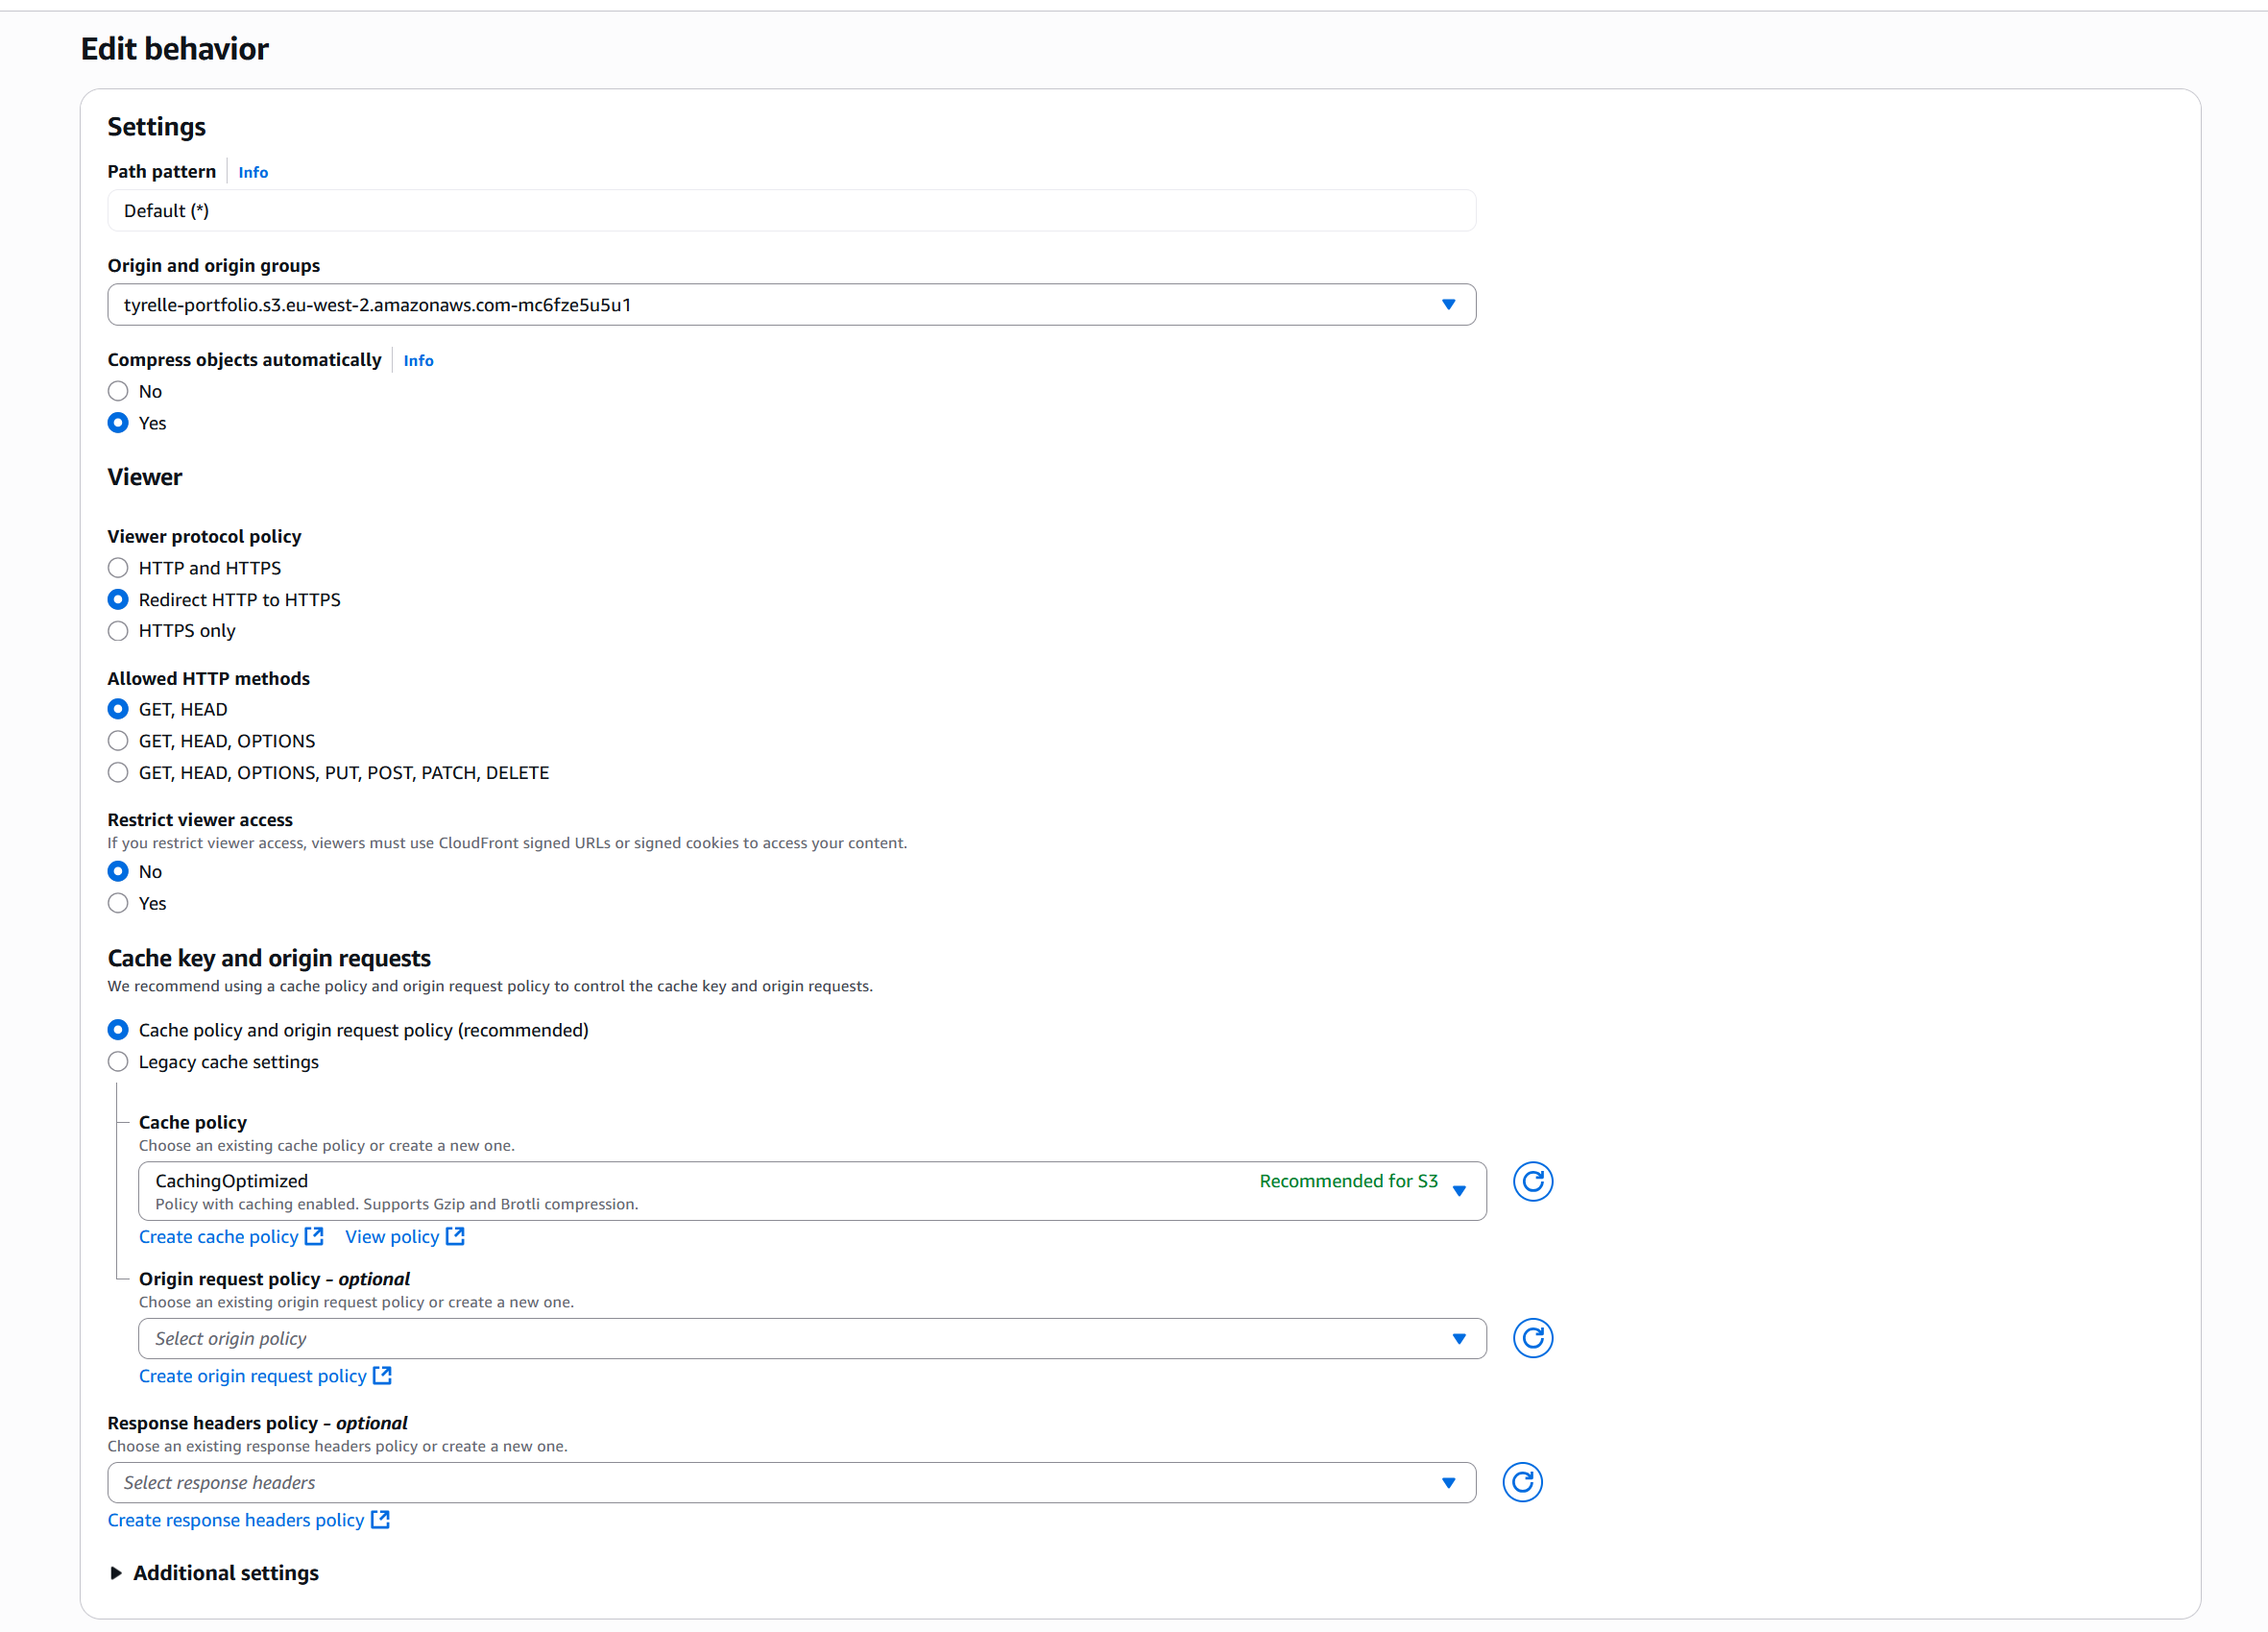
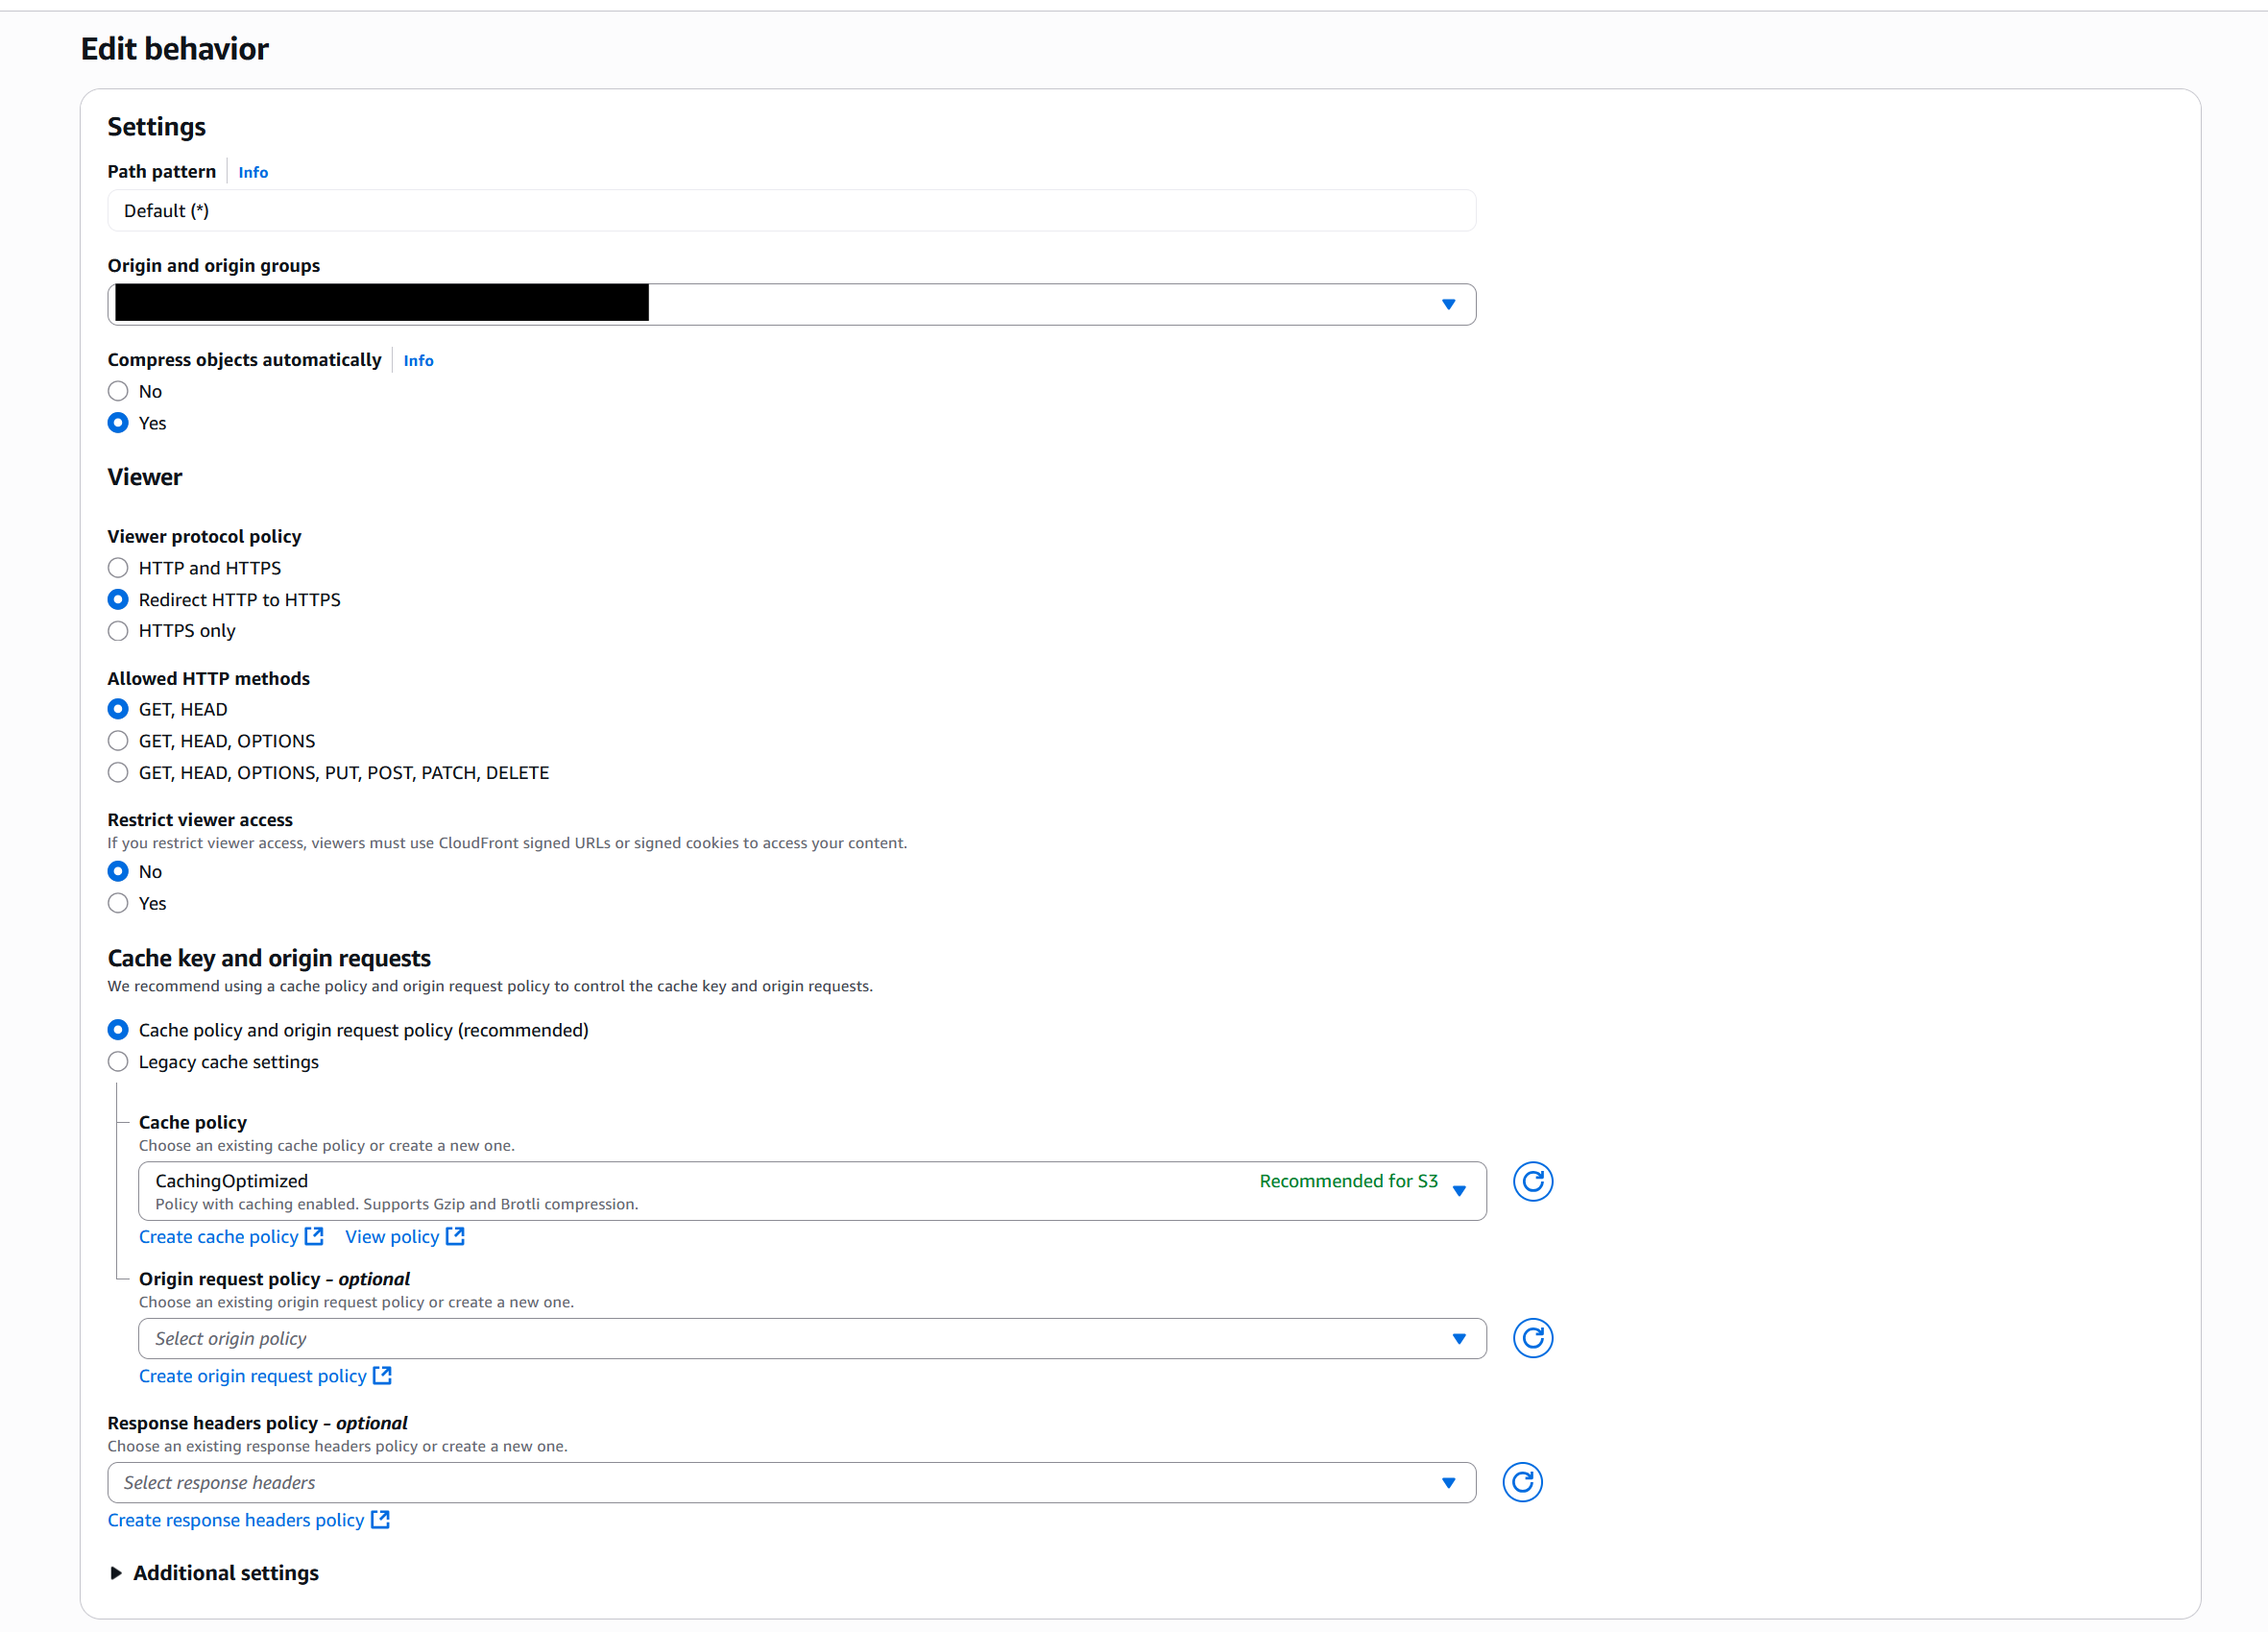
Remove some visibile AWS ARNs and amended a broken link

Changed region(s): [[0.0309, 0.156, 0.3091, 0.2184]]

diff --git a/docs/detailed-deployment-guide.md b/docs/detailed-deployment-guide.md
@@ -91,7 +91,7 @@
   - Select your hosted zone.
   - Create an A record for the first domain.
     * Select create record.
-    * Name the record the same as your domain i.e. "exampledomain.org" [exampledomain.org A-Record](screenshots/visual-guides/6.a-record01.png).
+    * Name the record the same as your domain i.e. "exampledomain.org" [exampledomain.org A-Record](screenshots/visual-guides/6.a-record-01.png)
     * Select the 'Alias' button.
     * In endpoint chose 'Alias' to CloudFront distribution'.
     * In distribtuion chose your distribution.
